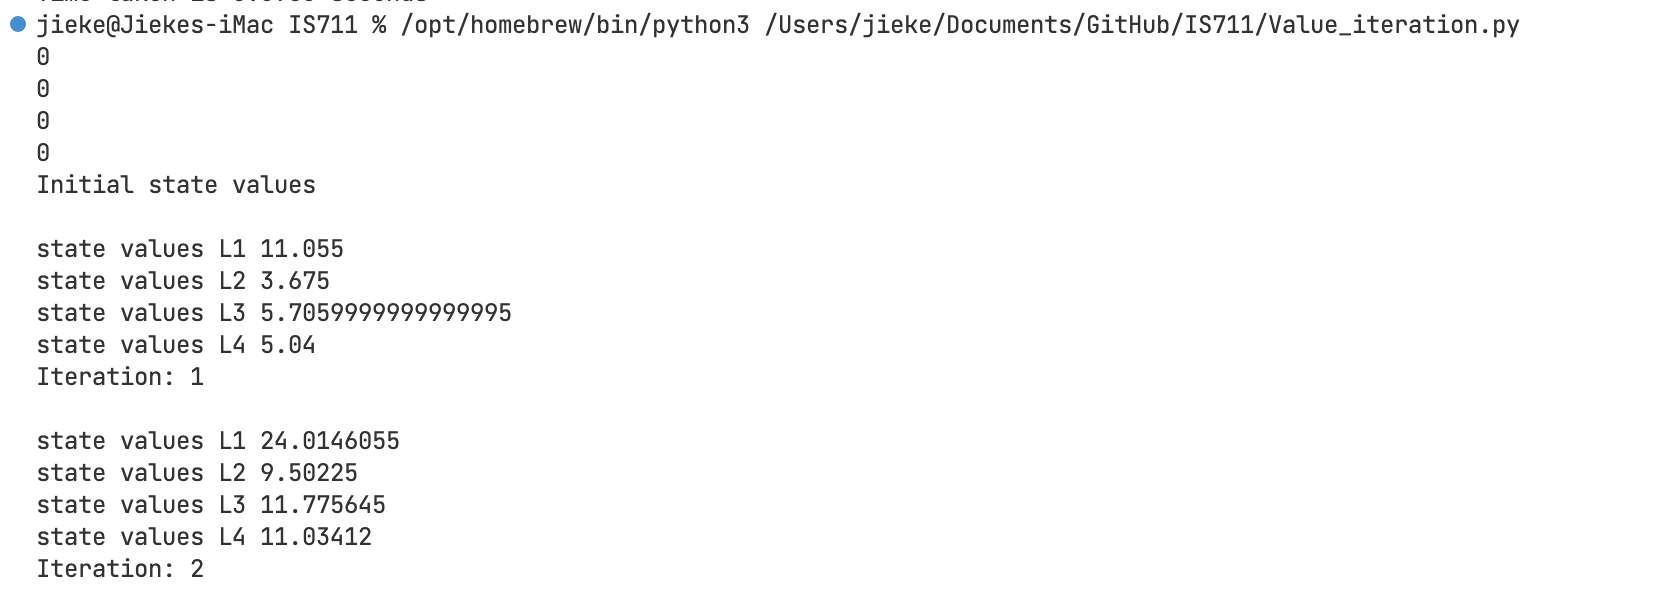
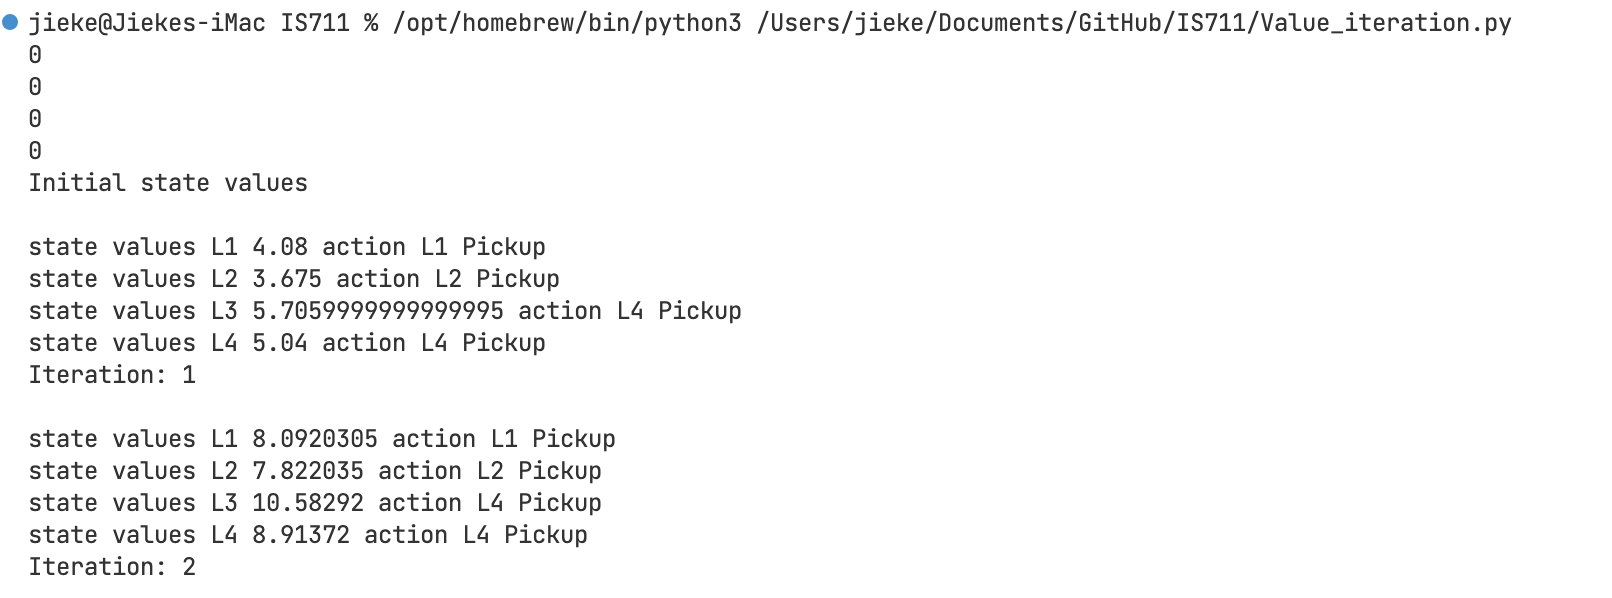
fix: fix bug in value iteration

diff --git a/Value_iteration.py b/Value_iteration.py
@@ -1,3 +1,4 @@
+from re import A
 from time import time
 
 
@@ -10,7 +11,7 @@ print_name_alias = True
 
 # MDP config
 grid_rows, grid_cols = 2,2
-convergence_tol = 10
+convergence_tol = 0.01
 discount_factor = 0.95
 
 
@@ -53,7 +54,7 @@ def main():
         Transition("L1", "L1", 0.7, 0),
         Transition("L1", "L2", 0.15, 19),
         Transition("L1", "L3", 0.09, 8.5),
-        Transition("L1", "L4", 0.96, 7.75),
+        Transition("L1", "L4", 0.06, 7.75),
         Transition("L2", "L2", 0.5, 0),
         Transition("L2", "L1", 0.2, 9),
         Transition("L2", "L3", 0.3, 6.25),
@@ -114,10 +115,10 @@ def main():
             state.value_old = state.value
         # Print
         i += 1
-        print("state values L1", states["L1"].value)
-        print("state values L2", states["L2"].value)
-        print("state values L3", states["L3"].value)
-        print("state values L4", states["L4"].value)
+        print("state values L1", states["L1"].value, "action L1", states["L1"].policy)
+        print("state values L2", states["L2"].value, "action L2", states["L1"].policy)
+        print("state values L3", states["L3"].value, "action L4", states["L1"].policy)
+        print("state values L4", states["L4"].value, "action L4", states["L1"].policy)
         print("Iteration: {0}".format(i) + "\n")
         # Convergence check
         is_converged = all([state.is_converged for state in states.values()])
